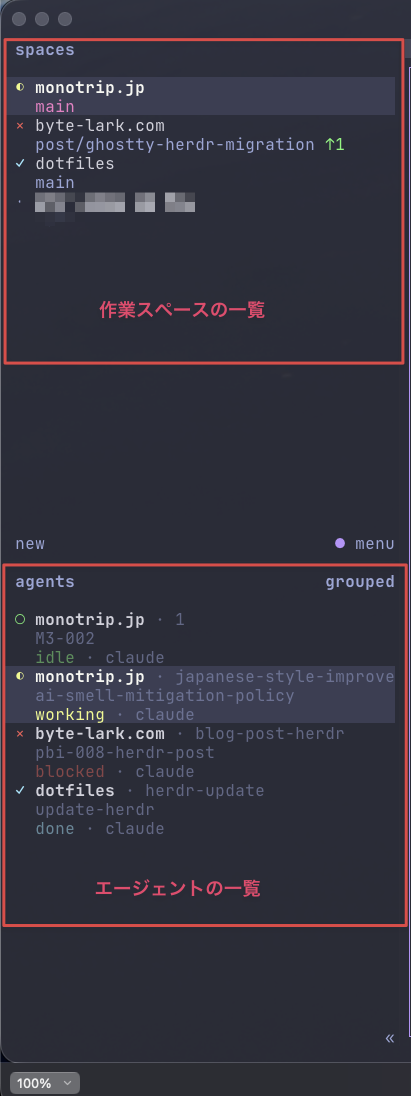
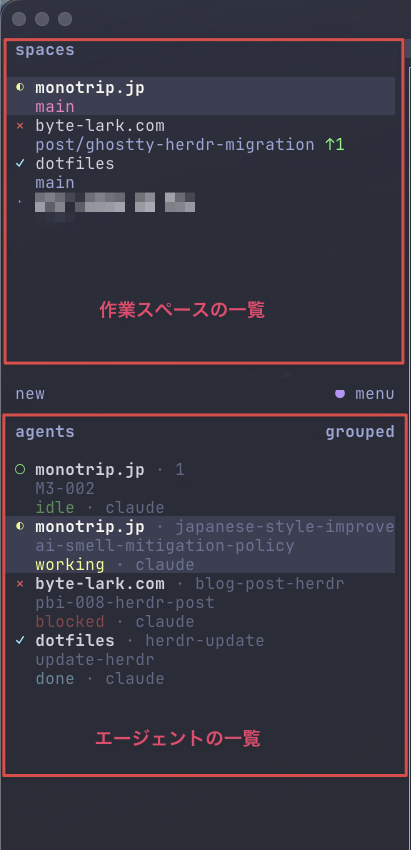
wip(pbi): PHASE1E-008 本文画像に高さの上限を追加しサイドバー画像を差し替え
縦長の画像が原寸のまま本文を押し広げていたため、.post-body img に
max-height: 30rem と width: auto を置いて縦横比を保ったまま収める。
herdr のサイドバー画像は余白を詰めた版（411x850）に差し替え。

Claude-Session: https://claude.ai/code/session_01CrGy8vAME4qcyhYRuFSnuM

diff --git a/tests/e2e/blog.spec.ts b/tests/e2e/blog.spec.ts
@@ -242,3 +242,43 @@ test.describe("記事内画像の拡大表示", () => {
     });
   });
 });
+
+// PHASE1E-008：縦長の画像が原寸のまま本文を押し広げないよう、
+// .post-body img に高さの上限を置いた（PostLayout.astro）。
+// 上限に当たったとき幅が追随せず潰れる作りになっていないかまで見る。
+// 公開済み記事の画像はいずれも上限より低いので、上限値そのものは算出値で確かめる
+test.describe("本文画像の高さの上限", () => {
+  const MAX_HEIGHT_PX = 480; // 30rem
+
+  test("上限を超えず、縦横比も保たれる", async ({ page }) => {
+    await page.goto(`/blog/${POST_WITH_IMAGE_SLUG}/`);
+    const images = page.locator(".post-body img[data-zoomable]");
+    await expect(images.first()).toBeVisible();
+    // 画像は遅延読み込みなので、末尾まで送って naturalWidth が入るのを待つ
+    await page.evaluate(() => window.scrollTo(0, document.body.scrollHeight));
+    await expect
+      .poll(() =>
+        images.evaluateAll((els) =>
+          (els as HTMLImageElement[]).every(
+            (el) => el.complete && el.naturalWidth > 0,
+          ),
+        ),
+      )
+      .toBe(true);
+
+    const boxes = await images.evaluateAll((els) =>
+      (els as HTMLImageElement[]).map((el) => ({
+        maxHeight: getComputedStyle(el).maxHeight,
+        width: el.getBoundingClientRect().width,
+        height: el.getBoundingClientRect().height,
+        ratio: el.naturalWidth / el.naturalHeight,
+      })),
+    );
+    expect(boxes.length).toBeGreaterThan(0);
+    for (const box of boxes) {
+      expect(box.maxHeight).toBe(`${MAX_HEIGHT_PX}px`);
+      expect(box.height).toBeLessThanOrEqual(MAX_HEIGHT_PX + 1);
+      expect(box.width / box.height).toBeCloseTo(box.ratio, 1);
+    }
+  });
+});

diff --git a/docs/pbi/20260823-PHASE1E-008-post-ghostty-herdr-migration.md b/docs/pbi/20260823-PHASE1E-008-post-ghostty-herdr-migration.md
@@ -261,3 +261,18 @@ Started: 2026-08-23
   Spit Devider、super+digit 8 行の要否実機確認、herdr 側含む全コメント照合）
 - 検査：natural-japanese lint --genre tech 0 件、profile「避ける表現」照合済み
 - 判断待ち：縦長画像の表示上限（.post-body img への max-height 追加）の可否
+
+### 2026-09-13 セッション 4 続き 6（本文画像の高さ上限とサイドバー画像の差し替え）
+- 運営者承認「CSS 上限追加 + 余白詰め版併用」を反映
+- PostLayout.astro の `.post-body :global(img)` に `max-height: 30rem` と
+  `width: auto` を追加。縦長画像が原寸のまま本文を押し広げるのを止める
+  （それまで効いていたのは Tailwind preflight の `max-width: 100%` だけで、
+  高さに上限が無かった。幅 411px の画像は本文幅 736px 未満のため横も縮まず、
+  高さ 1096px がそのまま出ていた）
+- herdr-sidebar-annotated.png を余白詰め版（411x850）へ差し替え。
+  上限適用後の表示は 232x480（デスクトップ / モバイルとも）
+- 影響範囲を確認：公開済み記事の本文画像で表示高 480px を超えるものは無し
+  （各画像の実寸から表示幅 min(w, 736) で算出）
+- テスト追加：tests/e2e/blog.spec.ts「本文画像の高さの上限」1 件。
+  算出値の max-height と、上限適用時に幅が追随して縦横比が保たれることを見る
+- 検査：yarn check / check:ts とも 0 件。ローカル dev のスクショで表示確認
